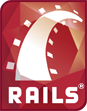
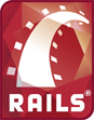
Static page content update

diff --git a/app/assets/stylesheets/custom.scss b/app/assets/stylesheets/custom.scss
@@ -32,6 +32,14 @@ textarea {
   }
 }
 
+a {
+  img {
+    border-left: 20px;
+    border-right: 20px;
+    margin-bottom: 20px;
+  }
+}
+
 /*** typography ***/
 
 h1, h2, h3, h4, h5, h6 {
